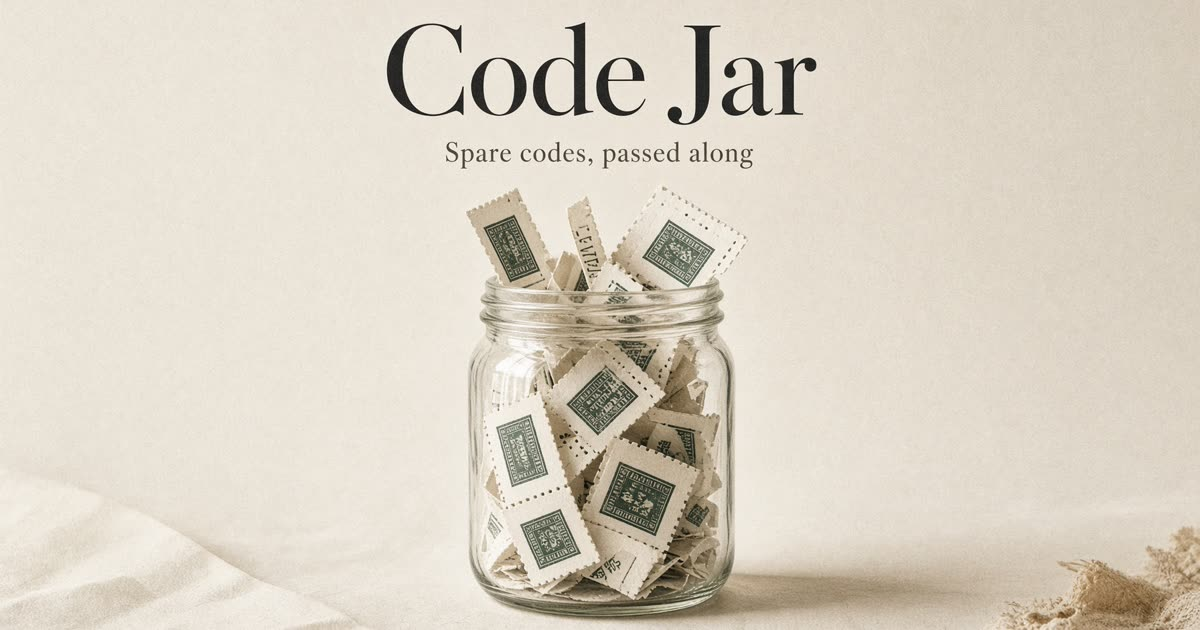
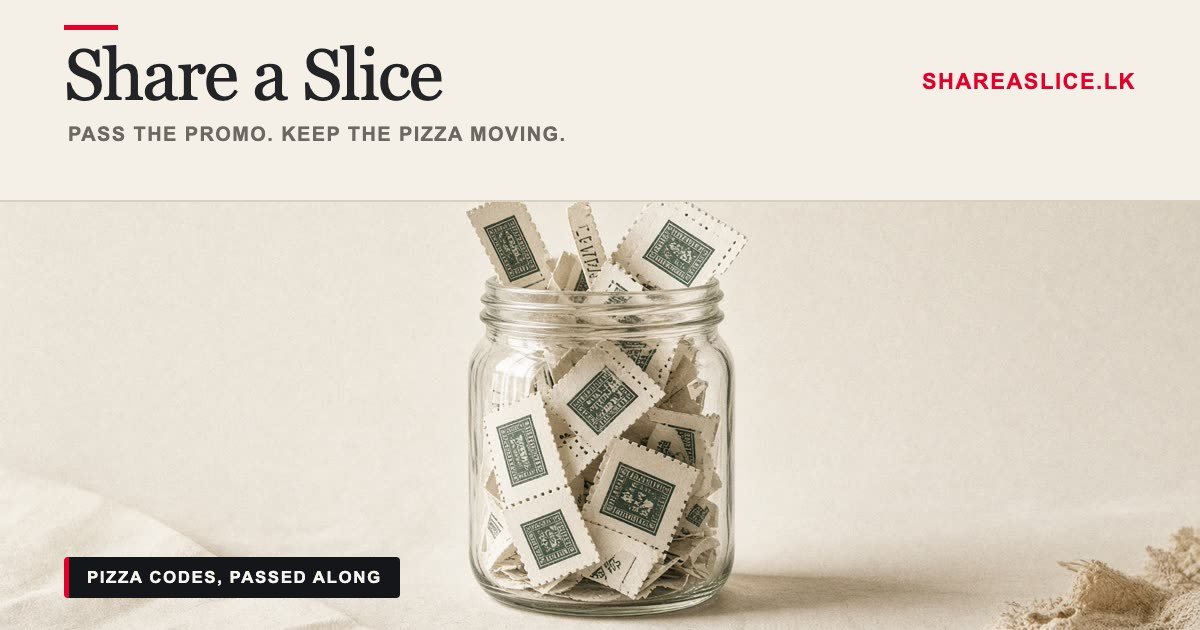
Rebrand app as Share a Slice

diff --git a/src/components/app-shell.tsx b/src/components/app-shell.tsx
@@ -37,7 +37,7 @@ export function AppShell({ children }: { children: ReactNode }) {
       <div className="app-frame">
         <aside className="app-sidebar">
           <div className="flex flex-col items-center">
-            <Link to="/" aria-label="SliceShare home">
+            <Link to="/" aria-label="Share a Slice home">
               <SiteLogo />
             </Link>
             <nav className="side-nav" aria-label="Primary navigation">
@@ -65,10 +65,10 @@ export function AppShell({ children }: { children: ReactNode }) {
 
         <div className="app-panel">
           <div className="mobile-header">
-            <Link to="/" aria-label="SliceShare home" className="mobile-brand">
+            <Link to="/" aria-label="Share a Slice home" className="mobile-brand">
               <SiteLogo size="sm" />
             </Link>
-            <span className="mobile-header-note">Unofficial code jar</span>
+            <span className="mobile-header-note">shareaslice.lk</span>
           </div>
           <main className="app-main">{children}</main>
           <footer className="app-footer">

diff --git a/src/routes/__root.tsx b/src/routes/__root.tsx
@@ -6,7 +6,7 @@ import { PreviewHostBridge } from "@/components/preview-host-bridge";
 import { AuthProvider } from "@/lib/auth/provider";
 import appCss from "../styles.css?url";
 
-const APP_NAME = "SliceShare · Pizza Promo Codes";
+const APP_NAME = "Share a Slice · Pizza Promo Codes";
 
 function makeQueryClient() {
   return new QueryClient({
@@ -32,7 +32,7 @@ export const Route = createRootRoute({
       { name: "theme-color", content: "#141416" },
     ],
     links: [
-      { rel: "icon", type: "image/svg+xml", href: "/sliceshare-icon.svg" },
+      { rel: "icon", type: "image/svg+xml", href: "/share-a-slice-icon.svg" },
       { rel: "stylesheet", href: appCss },
       { rel: "manifest", href: "/__grok/manifest.webmanifest" },
       { rel: "apple-touch-icon", href: "/__grok/icon-180.png" },

diff --git a/src/components/site-logo.tsx b/src/components/site-logo.tsx
@@ -2,11 +2,11 @@ import { cn } from "@/lib/utils";
 
 export function SiteLogo({ className, size = "md" }: { className?: string; size?: "sm" | "md" }) {
   const width = size === "sm" ? 118 : 148;
-  const height = Math.round(width * (96 / 260));
+  const height = Math.round(width * (96 / 300));
   return (
     <img
-      src="/sliceshare-logo.svg"
-      alt="SliceShare"
+      src="/share-a-slice-logo.svg"
+      alt="Share a Slice"
       width={width}
       height={height}
       className={cn(

diff --git a/src/components/site-header.tsx b/src/components/site-header.tsx
@@ -9,9 +9,9 @@ export function SiteHeader() {
         <Link
           to="/"
           className="text-sm font-medium tracking-tight text-foreground"
-          aria-label="Code Jar home"
+          aria-label="Share a Slice home"
         >
-          Code Jar
+          Share a Slice
         </Link>
         <div className="flex items-center gap-1">
           <Link

diff --git a/src/routes/privacy.tsx b/src/routes/privacy.tsx
@@ -3,7 +3,7 @@ import { AppShell } from "@/components/app-shell";
 
 export const Route = createFileRoute("/privacy")({
   component: PrivacyPage,
-  head: () => ({ meta: [{ title: "Privacy · Pizza Hut codes" }] }),
+  head: () => ({ meta: [{ title: "Privacy · Share a Slice" }] }),
 });
 
 function PrivacyPage() {

diff --git a/src/routes/terms.tsx b/src/routes/terms.tsx
@@ -3,7 +3,7 @@ import { AppShell } from "@/components/app-shell";
 
 export const Route = createFileRoute("/terms")({
   component: TermsPage,
-  head: () => ({ meta: [{ title: "Terms · Pizza Hut codes" }] }),
+  head: () => ({ meta: [{ title: "Terms · Share a Slice" }] }),
 });
 
 function TermsPage() {

diff --git a/src/routes/how-to.tsx b/src/routes/how-to.tsx
@@ -4,7 +4,7 @@ import { AppShell } from "@/components/app-shell";
 export const Route = createFileRoute("/how-to")({
   component: HowToPage,
   head: () => ({
-    meta: [{ title: "How to · Pizza Hut codes" }],
+    meta: [{ title: "How to · Share a Slice" }],
   }),
 });
 
